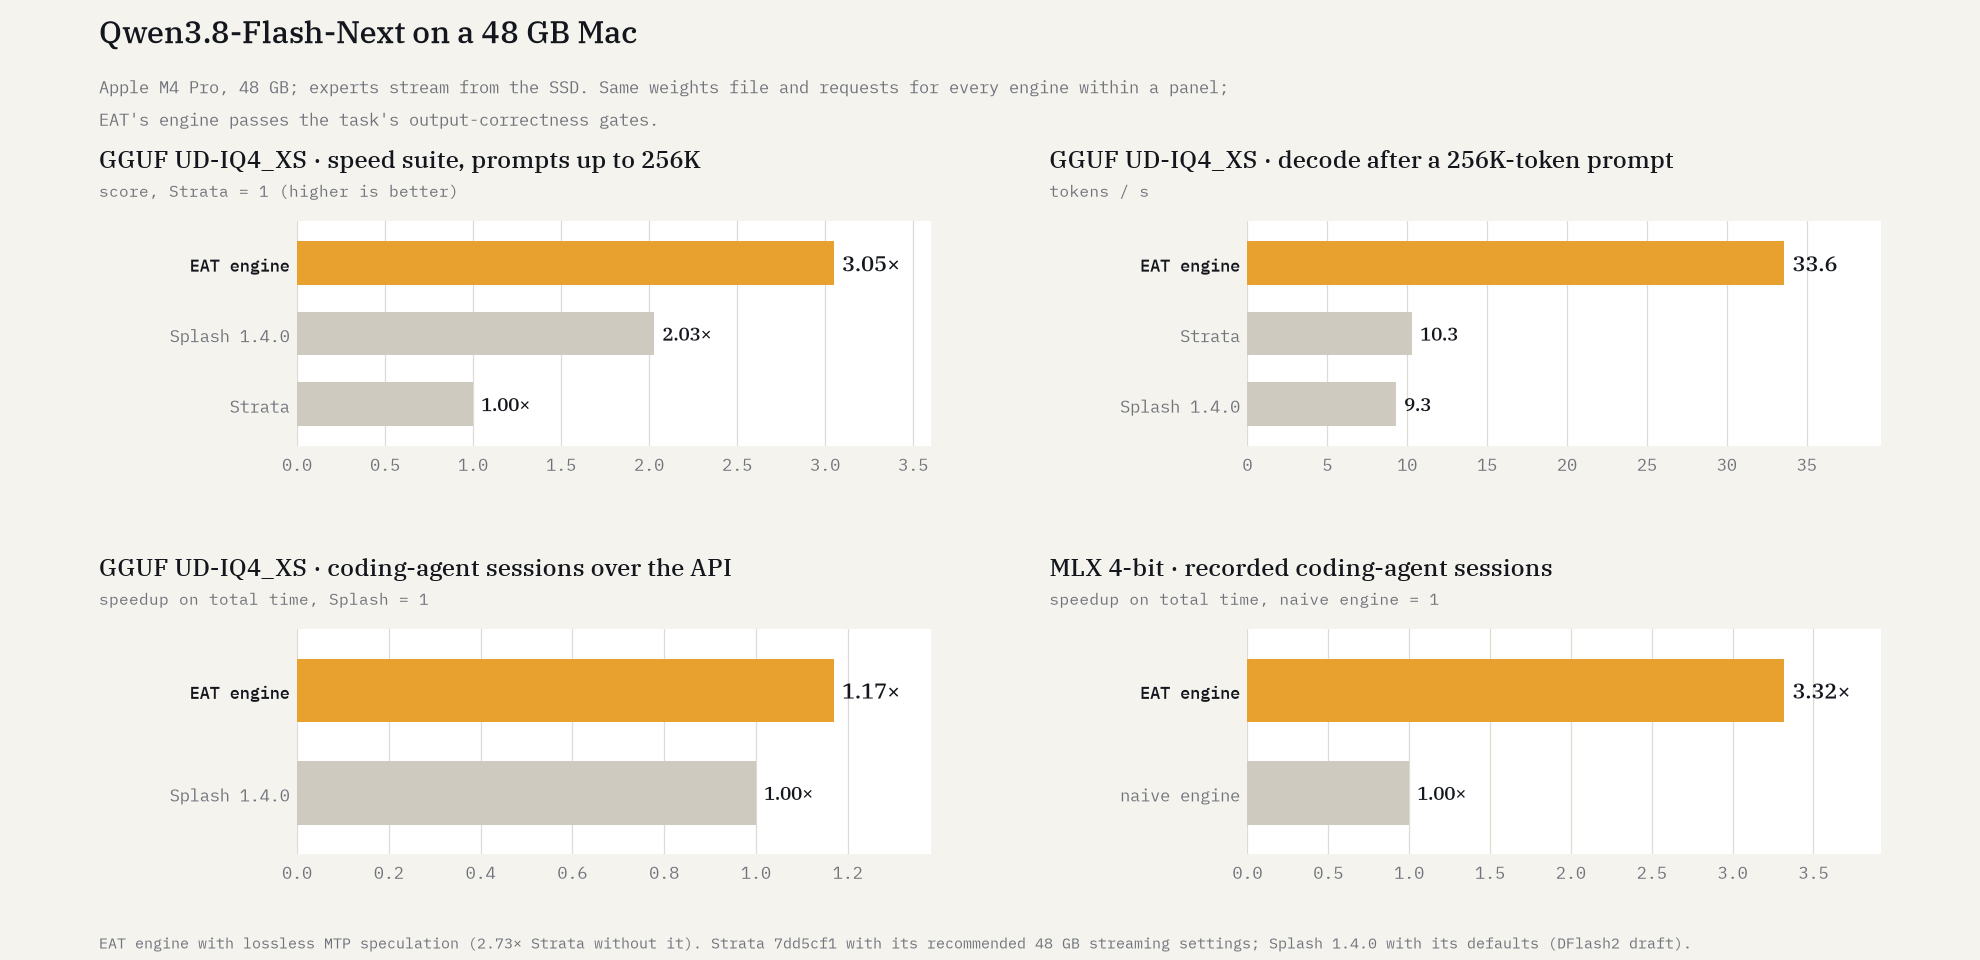
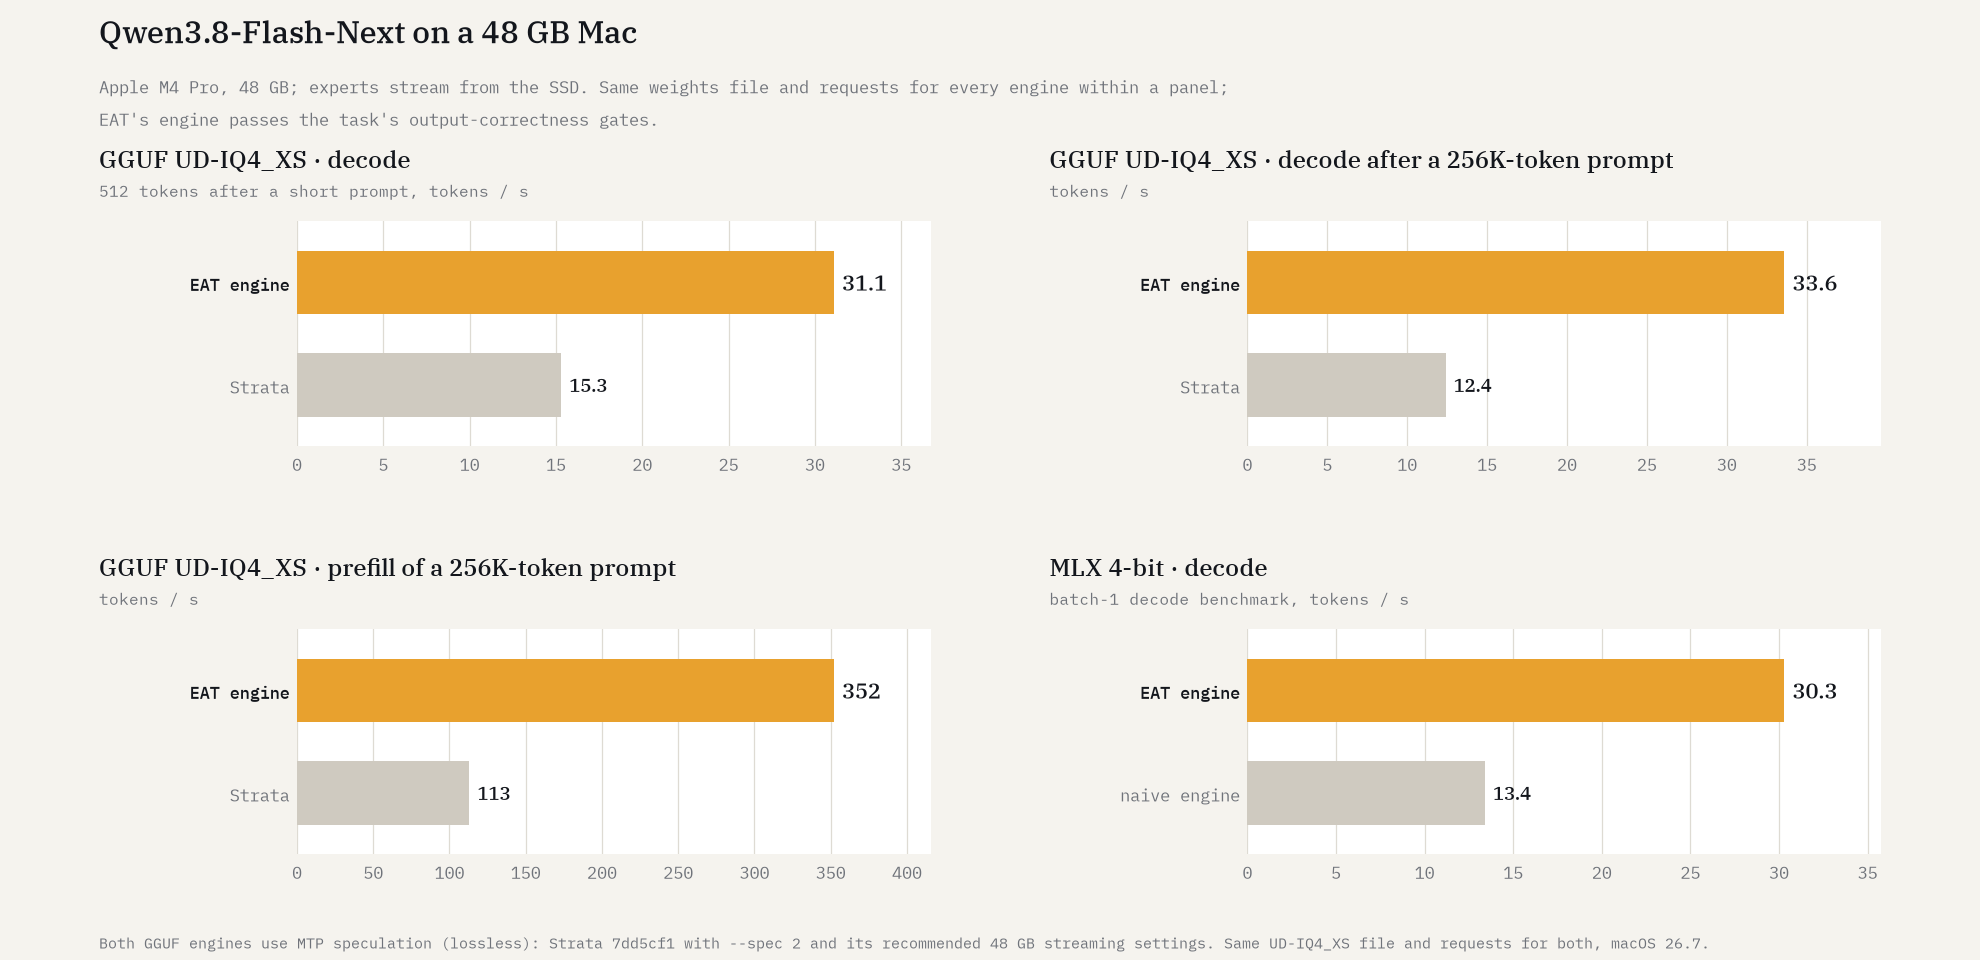
README: Mac results in tokens/s vs Strata (MTP on) and the naive engine; Splash removed

diff --git a/README.md b/README.md
@@ -91,13 +91,11 @@ the leaderboard (55.3, Oct 26, 2026)**. Same scene, left: Pi_05; right: the team
 The model does not fit in the Mac's memory, so its experts stream from the SSD. An EAT team wrote the offload engine,
 starting from a naive port. On an Apple M4 Pro with 48 GB:
 
-- **GGUF UD-IQ4_XS:** on a speed suite with prompts up to 256K tokens, the engine scores **3.05× Strata** (Splash
-  1.4.0: 2.03×). After a 256K-token prompt it still decodes at **33.6 tokens/s**, against 10.3 for Strata and 9.3
-  for Splash. On recorded coding-agent sessions replayed through each engine's API, it is **1.17× faster than Splash**.
-- **MLX 4-bit:** on recorded coding-agent sessions it is **3.32× faster than the naive engine** (batch-1 decode
-  13.4 → 30.3 tokens/s).
+- **GGUF UD-IQ4_XS**, against Strata on the same file (both with MTP speculation): decode **31.1 vs 15.3 tokens/s**;
+  after a 256K-token prompt, decode **33.6 vs 12.4 tokens/s** and prefill **352 vs 113 tokens/s**.
+- **MLX 4-bit**, against the naive engine: batch-1 decode **30.3 vs 13.4 tokens/s**.
 
-<p align="center"><img alt="Qwen3.8-Flash-Next on an M4 Pro: EAT's engine vs Strata, Splash and the naive engine" src="assets/eat_mac_serving.png" width="100%"></p>
+<p align="center"><img alt="Qwen3.8-Flash-Next on an M4 Pro: EAT's engine vs Strata and the naive engine, tokens/s" src="assets/eat_mac_serving.png" width="100%"></p>
 
 **Coming soon:** serving on an Apple M5 Pro.
 
